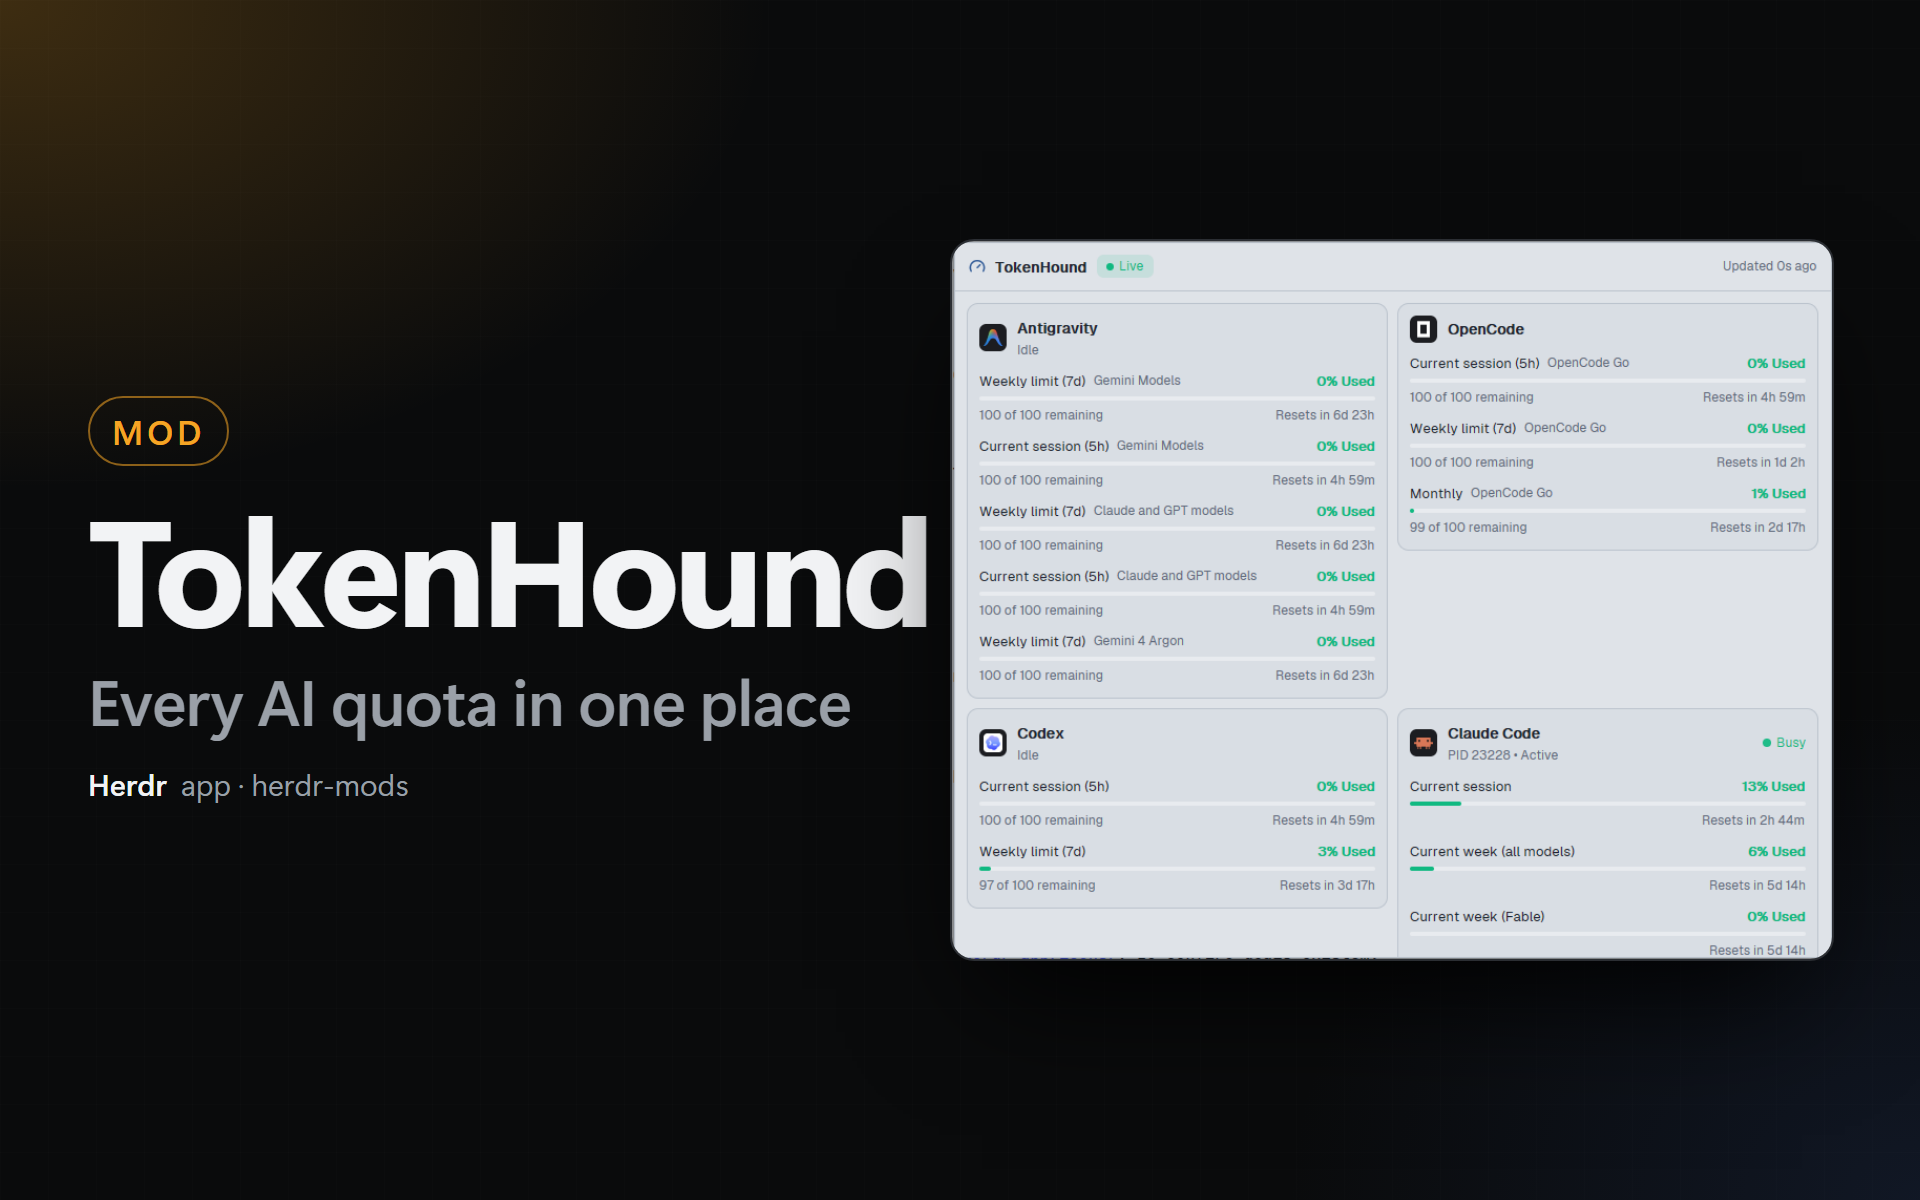
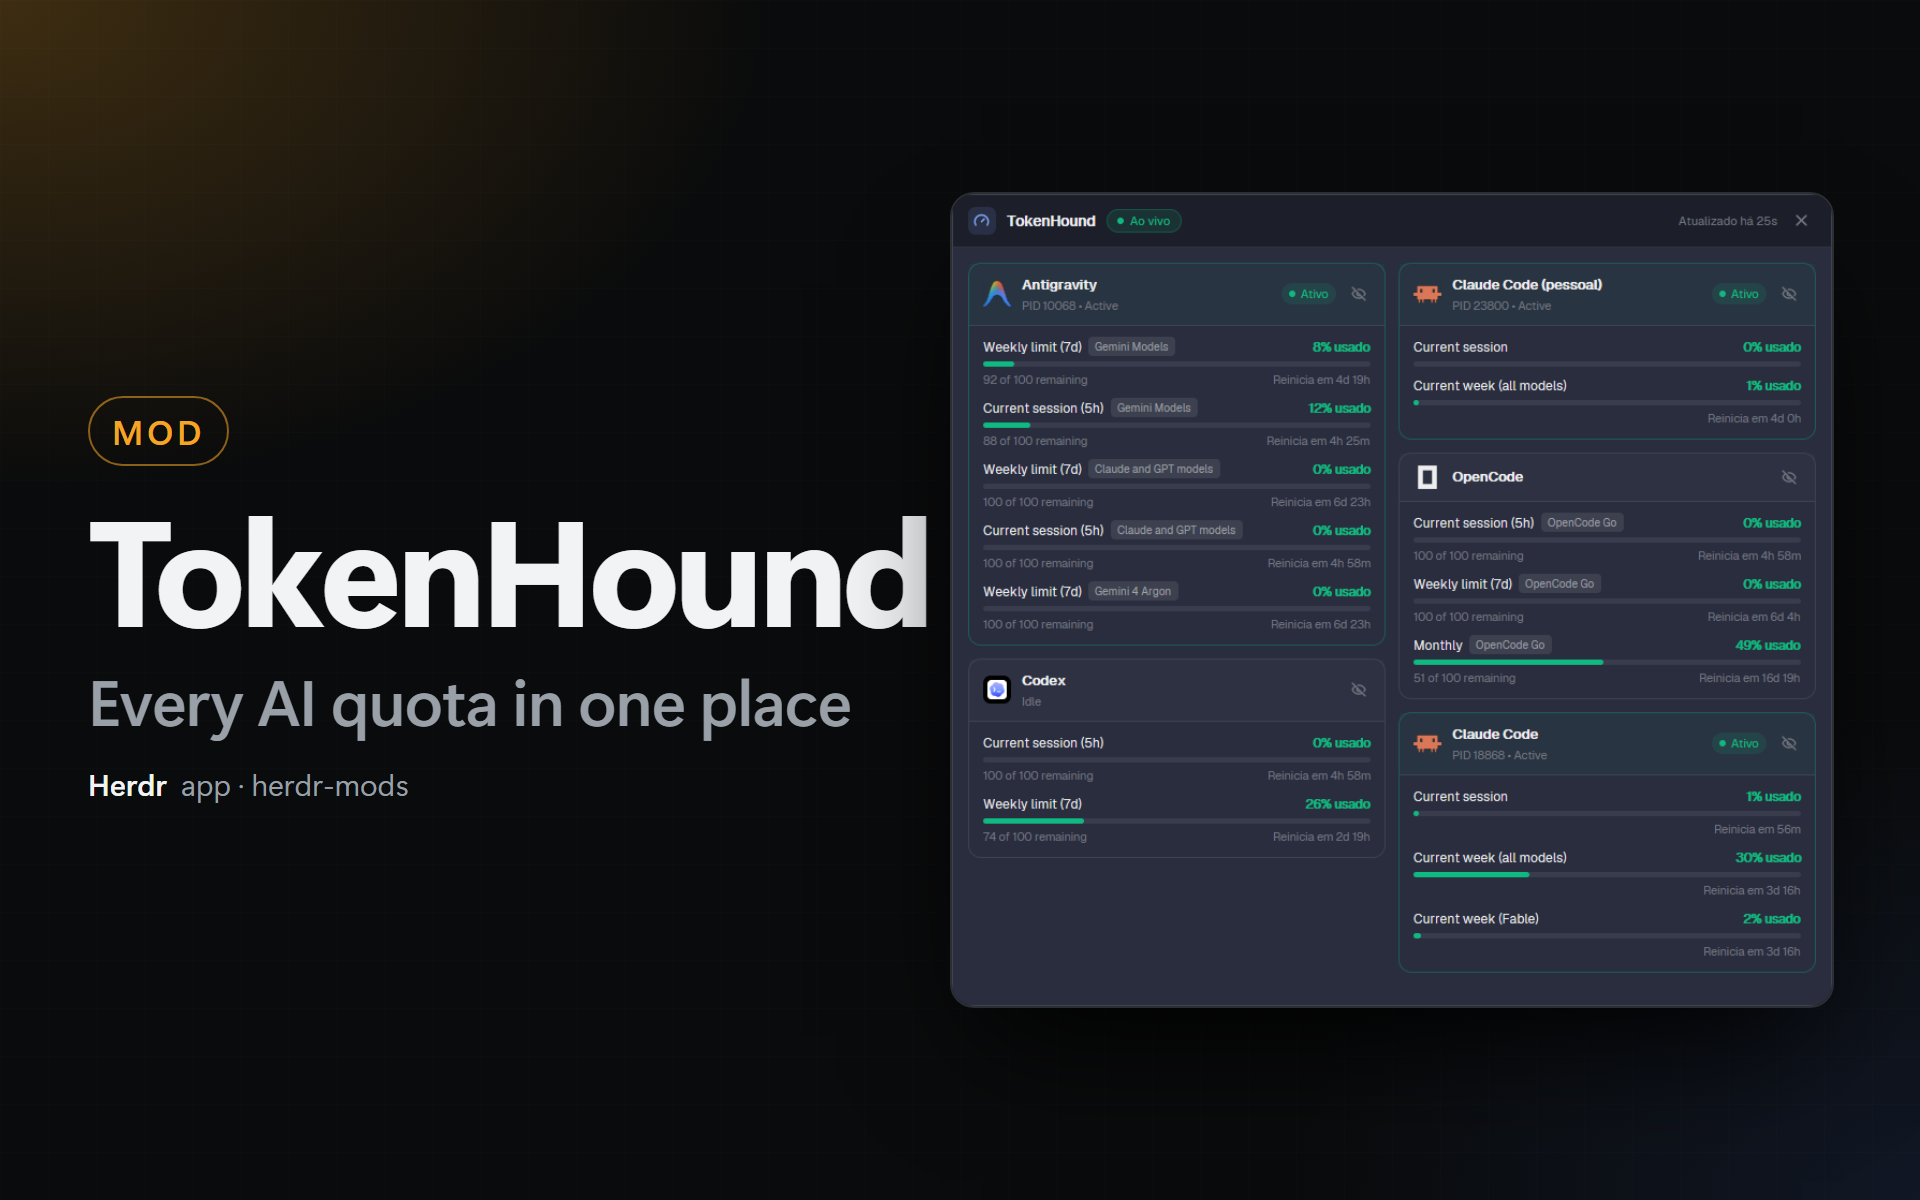
feat(tokenhound): masonry layout, adaptive dialog height, and refreshed cards

diff --git a/tokenhound-app/mods/tokenhound/view.js b/tokenhound-app/mods/tokenhound/view.js
@@ -100,17 +100,19 @@ const valueColor = (t, p, f) => statusColor(t, p.status) ?? (hasFraction(f) ? le
 const busyDot = (size) => div().size(size).flex_none().rounded(size / 2).bg(BUSY)
   .loop("opacity", { from: 0.35, to: 1, period: 1200 });
 
-function bar(t, fraction, height = 4) {
+function bar(t, fraction, height = 5) {
   const f = Math.min(1, Math.max(0, fraction));
-  return div().w_full().h(height).flex_none().rounded(height / 2).bg(t.raised)
-    .child(div().h_full().w(`${(f * 100).toFixed(1)}%`).rounded(height / 2).bg(levelColor(t, fraction)));
+  const color = levelColor(t, fraction);
+  return div().w_full().h(height).flex_none().rounded(height / 2).bg(tint(t.foreground, "14")).overflow_hidden()
+    .when(f > 0, (e) => e.child(div().h_full().w(`${(f * 100).toFixed(1)}%`).min_w(height).rounded(height / 2).bg(color)));
 }
 
 function statePill(t, m) {
   const color = stateColor(t, m.state);
-  return h_flex().h(20).px(8).gap(5).flex_none().items_center().rounded(6).text_size(11)
-    .bg(tint(color, "1f")).text_color(color)
-    .child(div().size(6).rounded(3).bg(color))
+  const dot = m.state === "live" ? busyDot(6) : div().size(6).flex_none().rounded(3).bg(color);
+  return h_flex().h(22).px(9).gap(6).flex_none().items_center().rounded(11).text_size(11).font_medium()
+    .bg(tint(color, "1f")).border_1().border_color(tint(color, "44")).text_color(color)
+    .child(dot)
     .child(m.str[m.state] ?? m.state);
 }
 
@@ -126,78 +128,147 @@ function row(t, m, r) {
   return v_flex().gap(4).w_full()
     .child(h_flex().gap(8).items_center().w_full()
       .child(h_flex().gap(6).flex_1().min_w(0).items_center()
-        .child(div().truncate().text_size(12).text_color(t.foreground).child(r.label ?? ""))
-        .when(Boolean(r.scopeText), (e) => e.child(div().truncate().text_size(11).text_color(t.dim).child(r.scopeText))))
-      .child(div().flex_none().text_size(12).font_semibold().text_color(color).child(primaryText(m, r))))
-    .when(hasFraction(r.usedFraction), (e) => e.child(bar(t, r.usedFraction)))
-    .when(Boolean(r.secondaryText || reset), (e) => e.child(h_flex().gap(8).w_full().text_size(11).text_color(t.dim)
+        .child(div().flex_initial().min_w(0).truncate().text_size(12).font_medium().text_color(t.foreground).child(r.label ?? ""))
+        .when(Boolean(r.scopeText), (e) => e.child(div().flex_shrink_1().min_w(0).truncate().px(6).py(1).rounded(4)
+          .bg(t.raised).text_size(10).text_color(t.muted).child(r.scopeText))))
+      .child(div().flex_none().text_size(11.5).font_semibold().text_color(color).child(primaryText(m, r))))
+    .when(hasFraction(r.usedFraction), (e) => e.child(bar(t, r.usedFraction, 5)))
+    .when(Boolean(r.secondaryText || reset), (e) => e.child(h_flex().gap(8).w_full().text_size(10.5).text_color(t.dim)
       .child(div().flex_1().min_w(0).truncate().child(r.secondaryText ?? ""))
       .child(div().flex_none().child(reset))))
     .when(Boolean(r.errorText), (e) => e.child(div().text_size(11).text_color(t.ansi1).child(r.errorText)));
 }
 
-function card(t, m, p, width) {
+function card(t, m, p) {
   const note = p.statusMessage ?? p.activeSessionText ?? "";
   const noteColor = p.statusMessage ? (statusColor(t, p.status) ?? t.muted) : t.dim;
   const rows = Array.isArray(p.rows) ? p.rows : [];
-  return v_flex().id(`th-card-${p.providerId}`).when(width > 0, (e) => e.w(width)).when(!width, (e) => e.w_full())
-    .flex_none().p(10).gap(8).rounded(10)
-    .bg(t.surface).border_1().border_color(t.border)
-    .child(h_flex().gap(9).items_center().w_full()
-      .child(badge(t, m, p, 24))
-      .child(v_flex().flex_1().min_w(0)
+  const active = p.isBusy === true;
+  return v_flex().id(`th-card-${p.providerId}`).w_full().flex_none().rounded(12).overflow_hidden()
+    .bg(t.surface).border_1().border_color(active ? tint(BUSY, "55") : t.border)
+    .child(h_flex().w_full().px(13).py(9).gap(10).items_center()
+      .bg(active ? tint(BUSY, "0d") : tint(t.foreground, "05"))
+      .when(rows.length > 0, (e) => e.border_b(1).border_color(tint(t.border, "99")))
+      .child(badge(t, m, p, 26))
+      .child(v_flex().flex_1().min_w(0).gap(1)
         .child(div().truncate().text_size(13).font_semibold().text_color(t.foreground).child(p.displayName ?? p.providerId))
-        .when(Boolean(note), (e) => e.child(div().truncate().text_size(11).text_color(noteColor).child(note))))
-      .when(p.isBusy === true, (e) => e.child(h_flex().gap(5).flex_none().items_center().text_size(11).text_color(BUSY)
-        .child(busyDot(7)).child(m.str.busy)))
-      .when(Boolean(m.ui), (e) => e.child(iconButton(t, `th-hide-${p.providerId}`, "eye-off", m.str.hideProvider, () => m.ui.hide(p.providerId)))))
-    .children(rows.map((r) => row(t, m, r)));
+        .when(Boolean(note), (e) => e.child(div().truncate().text_size(10.5).text_color(noteColor).child(note))))
+      .when(active, (e) => e.child(h_flex().h(20).px(7).gap(5).flex_none().items_center().rounded(10)
+        .bg(tint(BUSY, "1f")).text_size(10.5).font_medium().text_color(BUSY)
+        .child(busyDot(6)).child(m.str.busy)))
+      .when(Boolean(m.ui), (e) => e.child(iconButton(t, `th-hide-${p.providerId}`, "eye-off", m.str.hideProvider, () => m.ui.hide(p.providerId), 22))))
+    .when(rows.length > 0, (e) => e.child(v_flex().w_full().px(13).py(10).gap(8)
+      .children(rows.map((r) => row(t, m, r)))));
 }
 
 function message(t, m) {
-  return v_flex().w_full().p(16).gap(6).items_center()
-    .child(svg(ICON).size(22).text_color(stateColor(t, m.state)))
-    .child(div().text_size(13).text_color(t.foreground).child(m.str[m.state] ?? m.state))
-    .child(div().max_w(300).text_size(11).text_color(t.dim).child(stateHint(m)));
+  return v_flex().w_full().p(20).gap(8).items_center()
+    .child(div().size(40).rounded(12).flex().items_center().justify_center().bg(tint(stateColor(t, m.state), "1a"))
+      .child(svg(ICON).size(20).text_color(stateColor(t, m.state))))
+    .child(div().text_size(13.5).font_semibold().text_color(t.foreground).child(m.str[m.state] ?? m.state))
+    .child(div().max_w(320).text_center().text_size(11.5).text_color(t.dim).child(stateHint(m)));
 }
 
 function header(t, m) {
   const written = Date.parse(m.doc?.writtenAtUtc ?? "");
   const age = Number.isFinite(written) ? fill(m.str.updated, { age: duration(m.now - written) }) : "";
-  return h_flex().w_full().flex_none().px(12).py(10).gap(8).items_center().border_b(1).border_color(t.border)
-    .child(svg(ICON).size(15).flex_none().text_color(t.accent))
-    .child(div().text_size(13).font_semibold().text_color(t.foreground).child(m.str.title))
+  return h_flex().w_full().flex_none().px(14).py(11).gap(10).items_center().bg(t.chrome).border_b(1).border_color(t.border)
+    .child(div().size(26).flex_none().rounded(7).flex().items_center().justify_center().bg(tint(t.accent, "20"))
+      .child(svg(ICON).size(15).flex_none().text_color(t.accent)))
+    .child(div().text_size(13.5).font_semibold().text_color(t.foreground).child(m.str.title))
     .child(statePill(t, m))
     .child(div().flex_1())
-    .child(div().flex_none().text_size(11).text_color(t.dim).child(age))
+    .when(Boolean(age), (e) => e.child(div().flex_none().text_size(11).text_color(t.dim).child(age)))
     .when(Boolean(ownDialog()), (e) => e.child(iconButton(t, "th-close", "close", m.str.close ?? "Close", () => closeOverlay(ownDialog()), 26)));
 }
 
-/** The card width in a wide panel: columns of at least CARD_MIN px. 0: one column, full width. */
-const CARD_MIN = 340;
-function cardWidth(width) {
-  const inner = width - 20; // the list padding
-  const columns = Math.floor((inner + 8) / (CARD_MIN + 8));
-  return columns < 2 ? 0 : Math.floor((inner - 8 * (columns - 1)) / columns);
+/** Number of masonry columns for the available panel width. */
+const CARD_MIN = 310;
+const GRID_GAP = 12;
+function columnCount(width, count) {
+  if (count <= 1 || width <= 0) return 1;
+  const inner = width - 28; // horizontal padding
+  const cols = Math.floor((inner + GRID_GAP) / (CARD_MIN + GRID_GAP));
+  return Math.max(1, Math.min(count, cols));
+}
+
+/** Estimated height of a provider card (px), used to balance masonry columns without gaps. */
+function cardHeight(p) {
+  const rows = Array.isArray(p.rows) ? p.rows : [];
+  const head = (p.statusMessage || p.activeSessionText) ? 54 : 46;
+  const body = rows.reduce((h, r) => {
+    let rh = 20;
+    if (hasFraction(r.usedFraction)) rh += 9;
+    if (r.secondaryText || r.resetTimeUtc || r.resetText) rh += 17;
+    if (r.errorText) rh += 17;
+    return h + rh + 8;
+  }, rows.length ? 22 : 0);
+  return head + body;
+}
+
+/** Distributes providers across `cols` masonry columns, placing each card in the shortest column. */
+function packColumns(providers, cols) {
+  if (cols <= 1) return [providers];
+  const buckets = Array.from({ length: cols }, () => ({ items: [], height: 0 }));
+  for (const p of providers) {
+    let best = buckets[0];
+    for (let i = 1; i < buckets.length; i++) {
+      if (buckets[i].height < best.height) best = buckets[i];
+    }
+    best.items.push(p);
+    best.height += cardHeight(p) + GRID_GAP;
+  }
+  return buckets.map((b) => b.items).filter((items) => items.length > 0);
+}
+
+/** Suggested dialog height (px) so the packed masonry columns fit without scrolling when possible. */
+export function dialogHeight(providers, width, hasHidden = false) {
+  const list = Array.isArray(providers) ? providers : [];
+  if (!list.length) return 320;
+  const cols = columnCount(width, list.length);
+  const buckets = Array.from({ length: cols }, () => 0);
+  for (const p of list) {
+    let idx = 0;
+    for (let i = 1; i < buckets.length; i++) if (buckets[i] < buckets[idx]) idx = i;
+    buckets[idx] += cardHeight(p) + GRID_GAP;
+  }
+  const tallest = Math.max(...buckets) - GRID_GAP;
+  return Math.ceil(50 + 28 + tallest + (hasHidden ? 38 : 0) + 20);
 }
 
 /**
- * The full panel. `width`: the panel width at zoom 1 (0 when not known yet); a wide panel
- * shows the cards in columns.
+ * The full panel. `width`/`height`: available size at zoom 1 (0 when not known yet); a wide panel
+ * packs the cards into balanced masonry columns so short cards never leave empty gaps. In its own
+ * dialog (frame: "none", height: 0.86), the card fits its content up to the window's 86% cap.
  */
-export function panelView(t, m, { width = 0 } = {}) {
+export function panelView(t, m, { width = 0, height = 0 } = {}) {
   const warn = m.state === "stale" || m.state === "stopped";
-  const cw = cardWidth(width);
-  const list = v_flex().w_full().p(10).gap(8)
-    .when(warn, (e) => e.child(div().w_full().text_size(11).text_color(t.ansi3).child(stateHint(m))))
+  const cols = columnCount(width, m.providers.length);
+  const columns = packColumns(m.providers, cols);
+  const list = v_flex().w_full().p(14).gap(12)
+    .when(warn, (e) => e.child(div().w_full().px(10).py(7).rounded(8).bg(tint(t.ansi3, "18")).border_1().border_color(tint(t.ansi3, "44"))
+      .text_size(11).text_color(t.ansi3).child(stateHint(m))))
     .when(m.providers.length === 0, (e) => e.child(div().p(12).text_size(12).text_color(t.dim).child(m.str.empty)))
-    .child(h_flex().w_full().flex_wrap().items_start().gap(8)
-      .children(m.providers.map((p) => card(t, m, p, cw))))
+    .when(m.providers.length > 0, (e) => e.child(h_flex().w_full().items_start().gap(GRID_GAP)
+      .children(columns.map((items) => v_flex().flex_1().min_w(0).gap(GRID_GAP)
+        .children(items.map((p) => card(t, m, p)))))))
     .when(m.hidden.length > 0 && Boolean(m.ui), (e) => e.child(hiddenChips(t, m)));
   const body = SHOWS_DATA.has(m.state) ? list : message(t, m);
-  return v_flex().id("tokenhound").size_full().bg(t.background)
+  const dialog = ownDialog();
+  const panel = v_flex().id("tokenhound").w_full().rounded(12).overflow_hidden().bg(t.background)
+    .when(!dialog, (e) => e.h_full())
+    .when(Boolean(dialog), (e) => {
+      const wanted = SHOWS_DATA.has(m.state) ? dialogHeight(m.providers, width || 820, m.hidden.length > 0) : 240;
+      const fitted = height > 0 ? Math.min(height, Math.max(220, wanted)) : wanted;
+      return e.h(fitted).border_1().border_color(t.border).shadow_lg()
+        .on_click((_e, cx) => cx.stop_propagation());
+    })
     .child(header(t, m))
     .child(v_flex().id("tokenhound-scroll").flex_1().min_h(0).overflow_y_scrollbar().child(body));
+  if (!dialog) return panel;
+  return v_flex().id("tokenhound-backdrop").size_full().justify_center()
+    .on_click(() => closeOverlay(dialog))
+    .child(panel);
 }
 
 function statusEntry(t, m, p) {

diff --git a/tokenhound-app/mods/tokenhound/main.js b/tokenhound-app/mods/tokenhound/main.js
@@ -69,6 +69,7 @@ export default class TokenHound extends View {
     this.props = (given && Object.keys(given).length ? given : props()) || {};
     this.part = this.props.part ?? "panel";
     this.width = 0;
+    this.height = 0;
     this.result = null;
     this.reading = false;
     this.watching = false;
@@ -222,17 +223,20 @@ export default class TokenHound extends View {
     run("layout.resize", { id: node.id, px });
   }
 
-  /** Keeps the width at zoom 1 (on_size_change reports zoomed pixels), and redraws only on a change. */
-  setWidth(size, cx) {
-    const width = Math.round(size.width / (Number(settings().zoom) || 1));
-    if (width === this.width) return;
+  /** Keeps the width and height at zoom 1 (on_size_change reports zoomed pixels), and redraws only on a change. */
+  setSize(size, cx) {
+    const zoom = Number(settings().zoom) || 1;
+    const width = Math.round(size.width / zoom);
+    const height = Math.round(size.height / zoom);
+    if (width === this.width && height === this.height) return;
     this.width = width;
+    this.height = height;
     cx.notify();
   }
 
-  /** The panel in a dialog: 2 columns of cards. */
+  /** The panel in a dialog: up to 86% of the window height, shrinking to fit the masonry cards inside. */
   openDialog() {
-    openOverlay({ mod: MOD, kind: "dialog", width: 760, height: 620, props: { part: "dialog", lang: this.lang } });
+    openOverlay({ mod: MOD, kind: "dialog", frame: "none", width: 820, height: 0.86, props: { part: "dialog", lang: this.lang } });
   }
 
   /** In a dialog (its own, or a Dock panel dialog), a click gives the panel the keyboard, so Esc closes it. */
@@ -256,10 +260,10 @@ export default class TokenHound extends View {
       case "section":
         this.syncSize();
         return sectionView(t, m, this.width, () => this.openDialog())
-          .on_size_change((size, cx) => { this.setWidth(size, cx); });
+          .on_size_change((size, cx) => { this.setSize(size, cx); });
       default:
-        return this.dialogKeys(panelView(t, m, { width: this.width }))
-          .on_size_change((size, cx) => { this.setWidth(size, cx); });
+        return this.dialogKeys(panelView(t, m, { width: this.width, height: this.height }))
+          .on_size_change((size, cx) => { this.setSize(size, cx); });
     }
   }
 }

diff --git a/whats-new/145.md b/whats-new/145.md
@@ -1,0 +1,3 @@
+- **tokenhound:** Redesigned the dialog with balanced masonry columns so short and tall providers pack cleanly without empty gaps.
+- **tokenhound:** The dialog height now adapts automatically to the window height (up to 86%), shrinking to fit its providers and scrolling only when needed.
+- **tokenhound:** Updated card headers, active badges, scope chips, and progress bars for a cleaner look.

diff --git a/SETUP-PROMPT.md b/SETUP-PROMPT.md
@@ -1,4 +1,4 @@
-<!-- herdr-mods-setup-version: 144 -->
+<!-- herdr-mods-setup-version: 145 -->
 # Set up or update my Herdr mods
 
 The first line of this file holds the version of the prompt. The `mods-hub`
